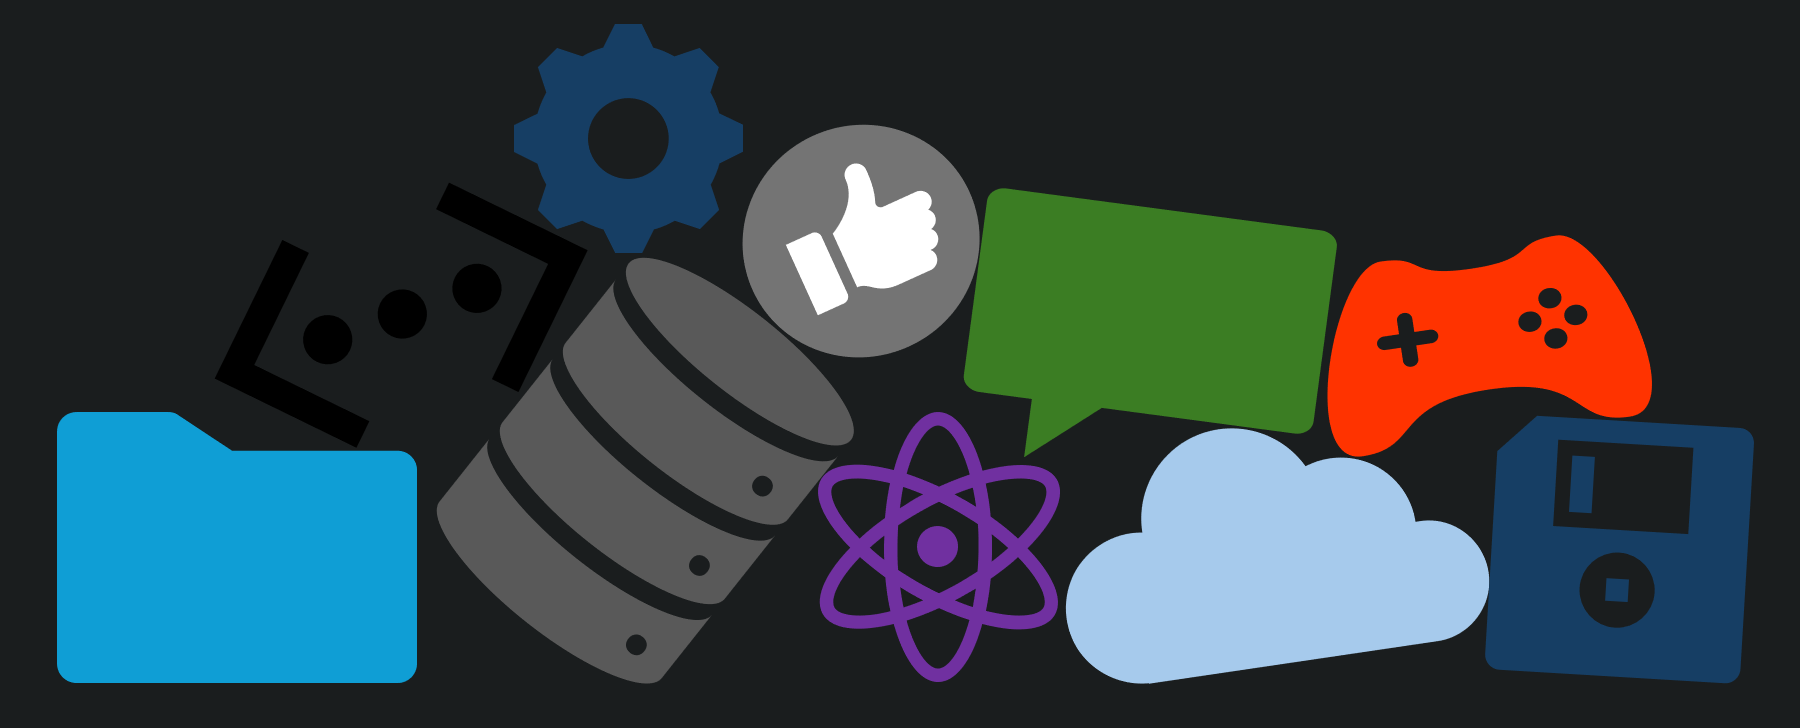
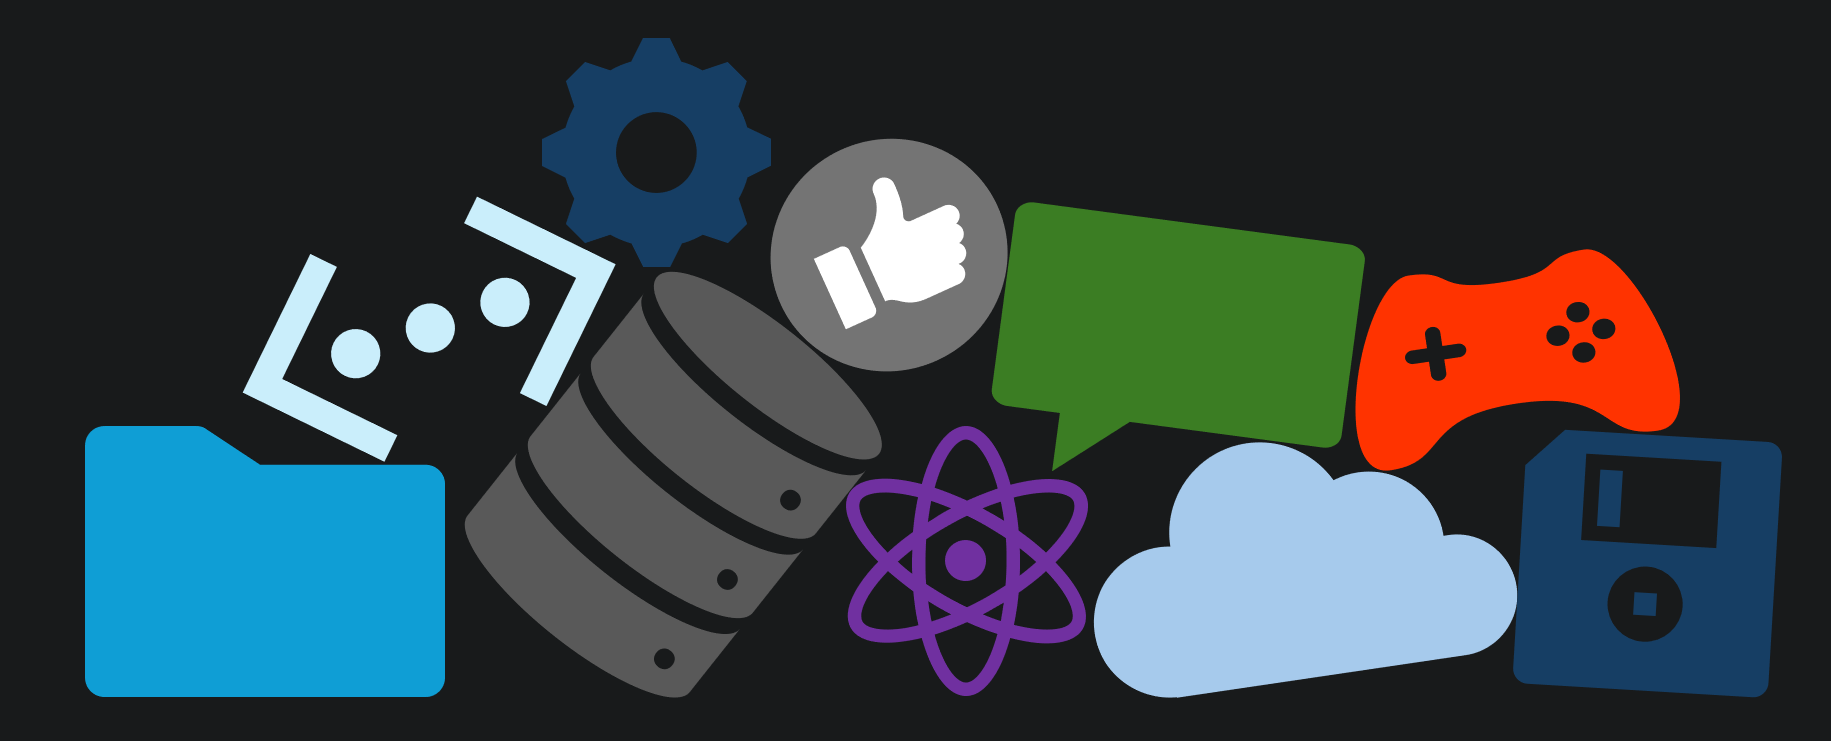
update

diff --git a/src/Component/Home/Home.css b/src/Component/Home/Home.css
@@ -1,9 +1,9 @@
 .Home {
-  background-color: rgb(0, 0, 0);
+  background-color: rgb(24, 26, 27);
   font-family: 'Roboto', sans-serif;
   }
   .Home .title{
-    background-color: black;
+    background-color:rgb(24, 26, 27);
     height: 400px;
     color: white;
     text-align: right;
@@ -30,7 +30,7 @@
   }
 
 .Home .overview{
-  background-color: rgb(0, 0, 0);
+  background-color: rgb(24, 26, 27);
   color: white;
   padding: 50px 20vh;
 }

diff --git a/src/Component/Home/Navigator_home/Navigator.css b/src/Component/Home/Navigator_home/Navigator.css
@@ -1,7 +1,7 @@
 .Nav {
     color: rgb(255, 255, 255);
     font-size: 25px;
-    background-color: rgb(0, 0, 0);
+    background-color: rgb(24, 26, 27);
     padding: 5px 20px;
     display: flex;
     justify-content: space-between;
@@ -10,7 +10,7 @@
 }
 
 .Nav .list {
-    background-color: rgb(0, 0, 0);
+    background-color: rgb(24, 26, 27);
     width: 100%;
     display: flex;
     list-style: none;
